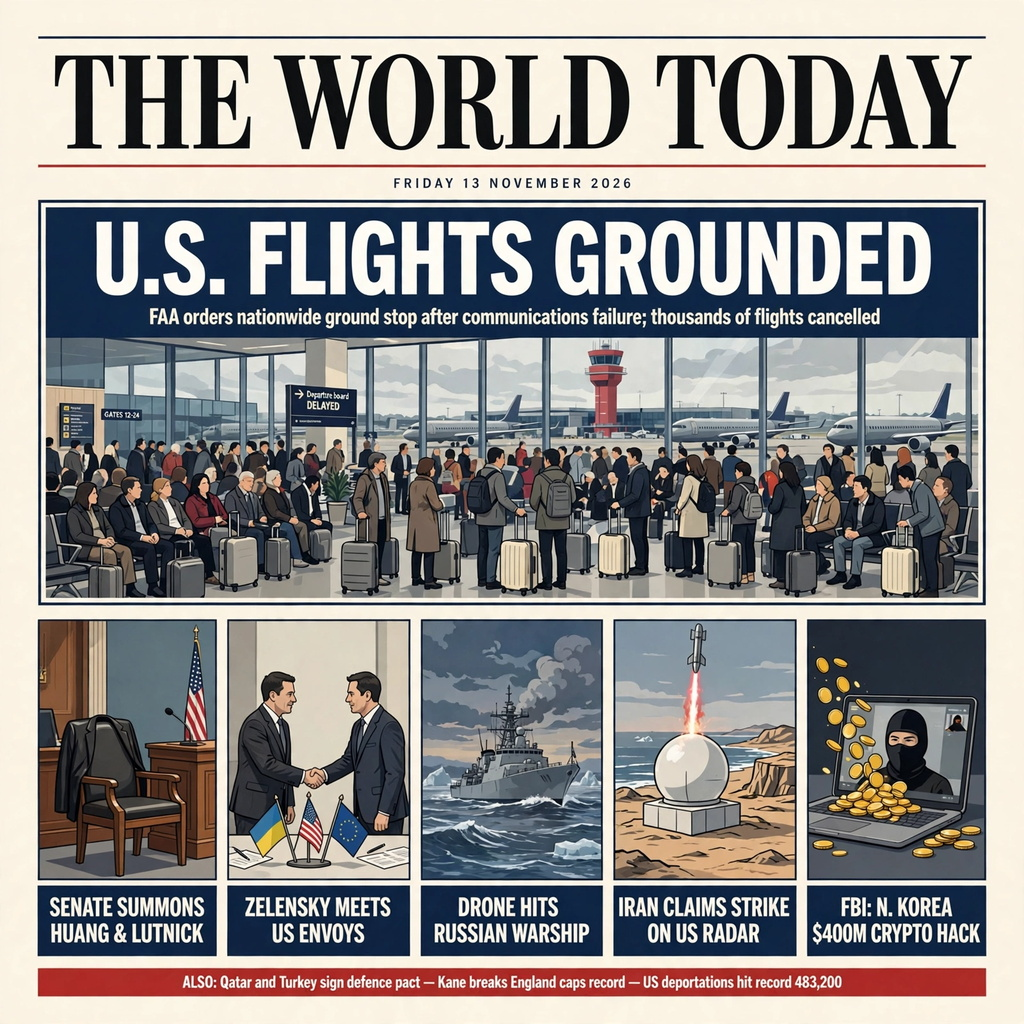
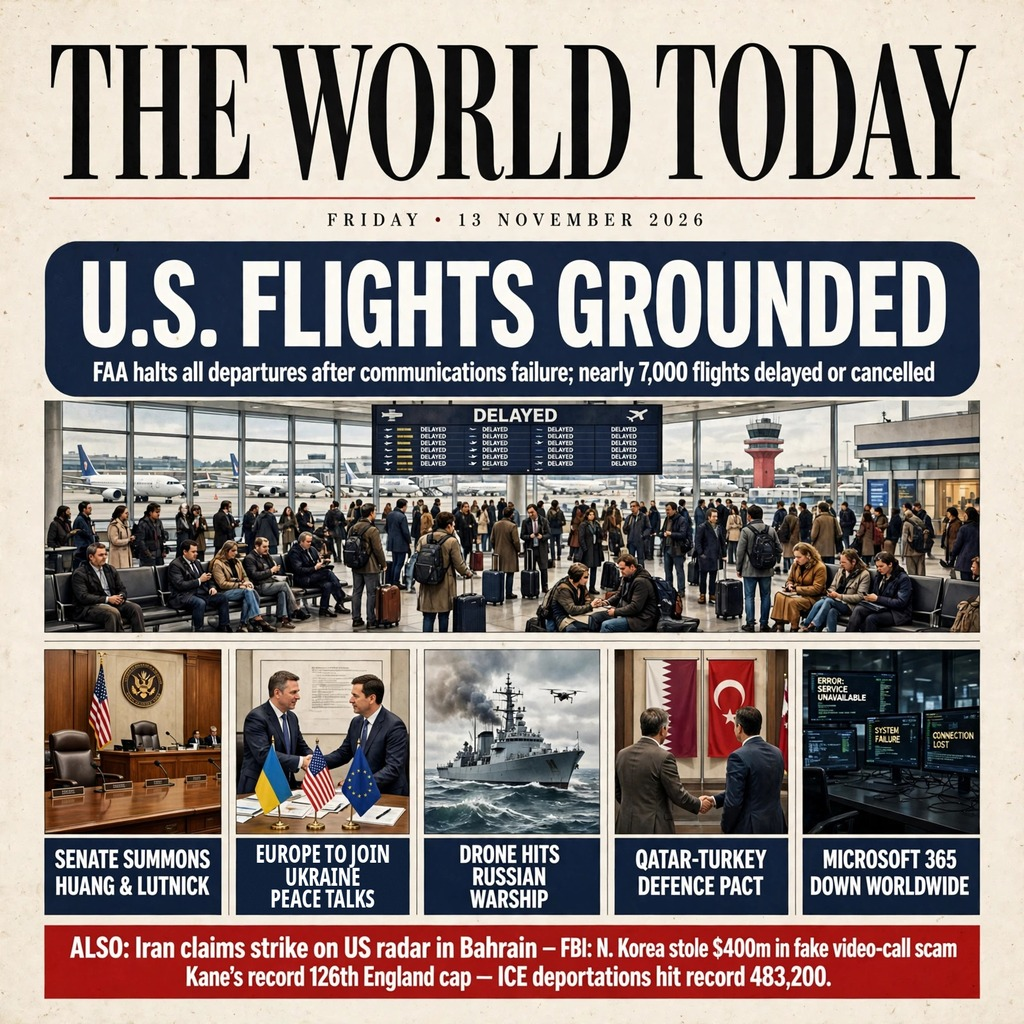
news-image-01: stronger front page — broader selection, legible at 300px
Replace v1 with a regenerated front page: same FAA ground-stop hero
(now with the hard 7,000-flight figure and a DELAYED departures board),
a real Senate hearing-room image instead of the empty chair, the
warship shown with a drone, the Qatar-Turkey pact promoted from the
footer to a panel, and the global Microsoft 365 outage added for
breadth; Iran and the FBI crypto story move to a larger two-line
footer. One caption repainted for faithfulness: EUROPE JOINS ->
EUROPE TO JOIN (Moscow had not confirmed). Captions and footer are
now readable at 300px wide, where v1's footer was a blur.

diff --git a/main.py b/main.py
@@ -3,11 +3,12 @@
 Deterministic, standard library only, no network. The image in this
 repository sums up the world news of Friday 13 November 2026: the FAA
 nationwide ground stop (hero story), the Senate summons of Huang and
-Lutnick, Zelensky meeting US envoys, a drone hitting a Russian warship,
-Iran's claimed strike on a US radar site in Bahrain, and the FBI's
-$400m North Korea crypto-hack warning, plus a footer strip with the
-Qatar-Turkey defence pact, Kane's England caps record and the record
-US deportation figure.
+Lutnick, Europe joining the Ukraine peace talks, a drone hitting a
+Russian warship in the Gulf of Finland, the Qatar-Turkey defence pact
+and the worldwide Microsoft 365 outage, plus a footer strip with
+Iran's claimed strike on a US radar site in Bahrain, the FBI's $400m
+North Korea crypto-scam warning, Kane's England caps record and the
+record US deportation figure.
 """
 
 import os

diff --git a/README.md b/README.md
@@ -6,21 +6,37 @@ A newspaper-front-page image summing up the world's news of Friday
 ## Stories in the image
 
 - **Hero: U.S. flights grounded** — the FAA ordered a nationwide ground
-  stop after a communications failure; thousands of flights cancelled,
-  the second nationwide stop since 9/11.
+  stop after a communications failure; flights were halted for about
+  four hours and nearly 7,000 flights were delayed or cancelled, the
+  longest nationwide stop since 9/11.
 - **Senate summons Huang & Lutnick** — the US Senate Banking Committee
-  summoned ex-Nvidia CEO Jensen Huang and Commerce Secretary Howard
-  Lutnick.
-- **Zelensky meets US envoys** — President Zelensky met US envoys
-  Witkoff and Kushner, with Europe brought into the peace talks.
-- **Drone hits Russian warship** — a Ukrainian drone hit a Russian
-  warship in the Gulf of Finland.
-- **Iran claims strike on US radar** — Iran said it struck a US radar
-  site in Bahrain.
-- **FBI: N. Korea $400m crypto hack** — the FBI warned North Korean
-  hackers stole $400m in crypto through fake video calls.
-- **Footer:** Qatar and Turkey signed a defence pact; Harry Kane broke
-  England's caps record; US deportations hit a record 483,200 in 2026.
+  summoned former Nvidia chief executive Jensen Huang (who resigned on
+  12 November) and Commerce Secretary Howard Lutnick to testify in
+  December over Nvidia chip exports to China.
+- **Europe to join Ukraine peace talks** — President Zelensky met US
+  envoys Witkoff and Kushner in Dublin; the envoys said European
+  partners would join the next round of talks, and a prisoner exchange,
+  the largest of the war, was agreed.
+- **Drone hits Russian warship** — Ukrainian drones hit the Russian
+  missile corvette Naro-Fominsk in the Gulf of Finland, the first such
+  strike in the Baltic.
+- **Qatar-Turkey defence pact** — Turkey and Qatar signed a mutual
+  defence agreement in Istanbul on 13 November.
+- **Microsoft 365 down worldwide** — the global Microsoft 365 outage
+  (Outlook, Teams, Copilot) entered its second day.
+- **Footer:** Iran claimed a strike on a US radar site in Bahrain
+  (the US military said it shot down two Iranian drones); the FBI said
+  North Korean hackers stole $400m in crypto through the fake
+  video-call "FaceStealer" scam; Harry Kane won a record 126th England
+  cap; ICE deportations hit a record 483,200 in fiscal 2026.
+
+## How it was made
+
+The front page was generated as one image, then a single caption was
+corrected for faithfulness: the generated caption read "EUROPE JOINS
+UKRAINE PEACE TALKS", but Moscow had not confirmed the European role,
+so the caption box was repainted with "EUROPE TO JOIN UKRAINE PEACE
+TALKS" in a matching condensed bold face. Nothing else was altered.
 
 ## How it runs
 
@@ -32,4 +48,4 @@ mkdir -p out && MAKEFUN_OUTPUT_DIR=out python3 main.py
 ```
 
 The output is a 1024x1024 JPEG (named `entry.png`, as the rules allow),
-449,504 bytes (under the 1 MiB limit), and byte-identical on every run.
+390,803 bytes (under the 1 MiB limit), and byte-identical on every run.
